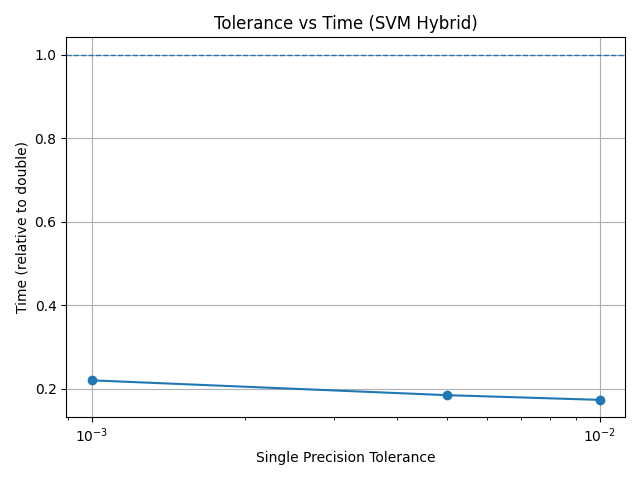
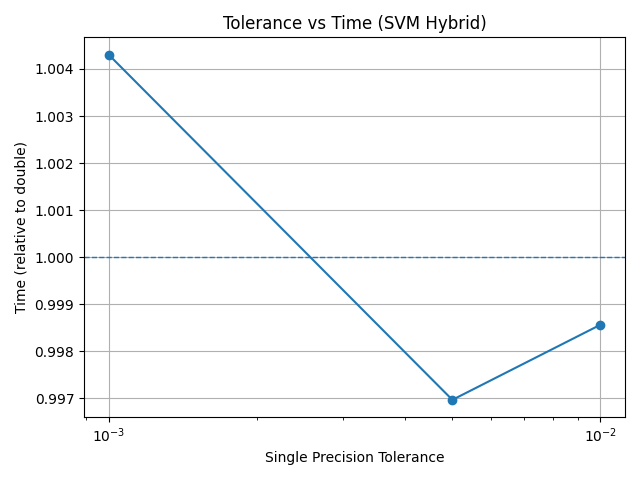
push test

diff --git a/experiments/svm_experiments.py b/experiments/svm_experiments.py
@@ -86,14 +86,13 @@ class SVMExperimentRunner:
                 )
             )
             # Hybrid with the same total budget
-            if bool(cfg.get("add_baseline_point_B", True)):
-                self.results_B.append(
+          
+            self.results_B.append(
                     svm_hybrid_precision(
                         tag, X, y,
                         max_iter_total=max_iter,
                         tol_single=tol_s,
                         tol_double=tol_double,
-                        single_iter_cap=0, 
                         keep_frac=keep_frac,
                         probe_max=probe_max,
                         **kw
